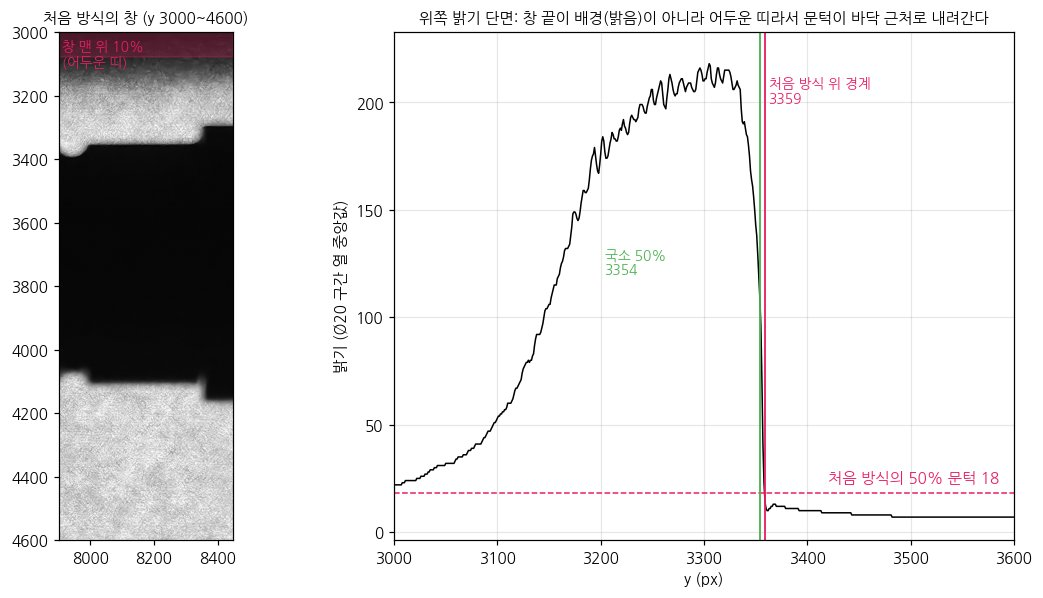
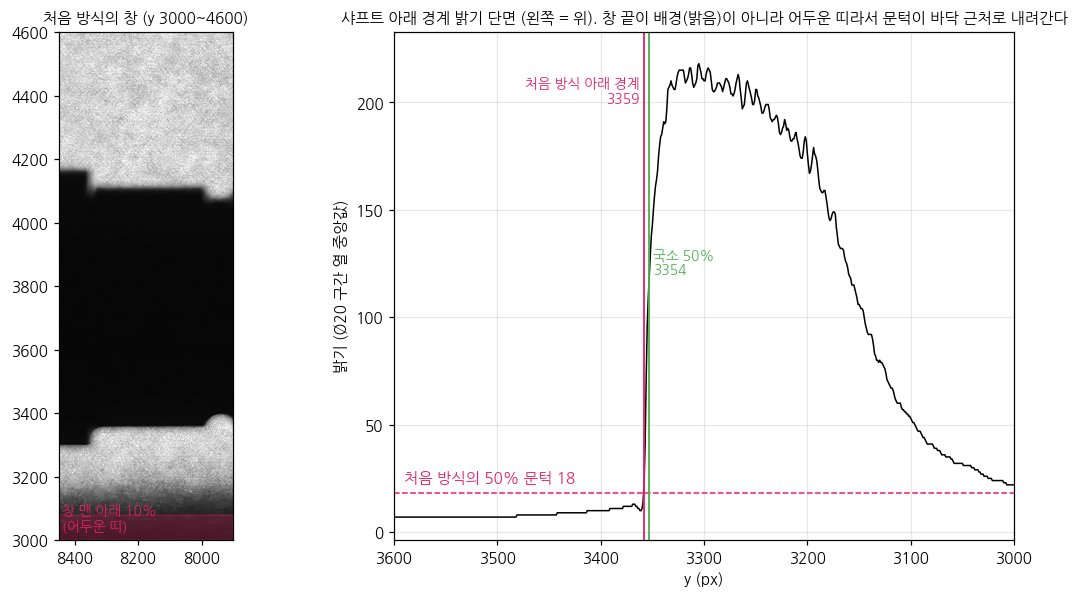
3차 분석정리: 사진 방향 정정(EXIF 180도). 그림을 실제 방향으로 다시 그리고 경계 위·아래, 홈·칼라 좌우 표기 수정. 숫자는 그대로

diff --git a/experiments/20261021_3차촬영/fig_mentor_v2.py b/experiments/20261021_3차촬영/fig_mentor_v2.py
@@ -12,7 +12,7 @@ l = pd.read_csv('local_edges.csv').merge(pd.read_csv('v3_d20.csv')[['file', 'pin
 l['no'] = l['no'].str[2:].astype(int); l['t'] = pd.to_datetime(l.file.str[:15], format='%Y%m%d_%H%M%S')
 l = l[(l.stage < 3) & ~((l.stage == 1) & (l.no == 1))].sort_values('t')
 fig, ax = plt.subplots(figsize=(9, 4.4))
-for col, c, lb in [('pin_px', '#999999', '기존 방식 (위 경계를 어두운 바닥 쪽에서 잡음, 결함)'), ('pin', '#1f5fa8', '국소 50% 방식 (경계 바로 안팎 밝기의 중간)')]:
+for col, c, lb in [('pin_px', '#999999', '기존 방식 (아래 경계를 어두운 바닥 쪽에서 잡음, 결함)'), ('pin', '#1f5fa8', '국소 50% 방식 (경계 바로 안팎 밝기의 중간)')]:
     ref = l[(l.stage == 1) & (l.no == 2)][col].mean()
     for st, mk in [(1, 'o'), (2, 's')]:
         s = l[l.stage == st]

diff --git a/docs/05_meetings/2026-10-23_3차촬영_분석정리.md b/docs/05_meetings/2026-10-23_3차촬영_분석정리.md
@@ -14,15 +14,17 @@
 - 실측: NO1 20.011 · NO2 20.020 · NO3 20.028 · NO4 20.019 · NO5 20.030 · NO6 20.011 · NO7 20.014 · NO8 20.026 · NO9 20.009 · NO10 20.022 · **NG1 19.968 · NG2 20.044**
 - 사진: 16320x7532, 1/60 · ISO 50 고정(암막 없음은 ISO 12). 1px 약 26.7µm(Ø20 = 약 750px). 공차 폭 20µm = 0.75px
 - 주의할 점
-  - 사진이 EXIF 방향 3(180도 회전)으로 저장돼 있다. 원본 좌표의 위·아래가 실제와 반대다
+  - 사진이 EXIF 방향 3(180도 회전)으로 저장돼 있다. 원본 파일 좌표는 위·아래, 왼쪽·오른쪽이 실제와 반대다
+  - 이 문서의 위·아래·왼쪽·오른쪽과 그림은 모두 실제 방향이다(핀이 샤프트 오른쪽). x·y 숫자만 원본 파일 좌표다
+  - (10-23 정정) 처음 올린 판은 원본 파일 방향 그대로 보고 위·아래를 적어서, 경계의 위·아래와 그림 방향이 실제와 반대였다. 방향만 고쳤고 숫자는 그대로다
   - NO1만 1.41배 디지털 줌·1/40으로 찍혔다. NO1을 빼고 계산해도 판정은 같다
   - 기준 핀 Ø16은 공인 핀게이지가 아니라 현장에서 측정한 값이다. 분석은 핀의 절대 지름을 쓰지 않고, 같은 핀의 px 변화만 본다
 - 측정 구간: Ø20 단(칼라와 홈 사이, 원본 x 약 7995 \~ 8355)의 가운데 x 8015 \~ 8335. 처음에 끝단(약 Ø16.7 구간)을 잘못 측정했다가 바로잡았다
 
 <img src="../images/20261021_3rd/photo1_scene.jpg" width="900">
 
-- 그림은 모두 원본 픽셀 좌표 그대로다(사진 뷰어에서는 180도 돌아 보인다). 문서의 x·y 숫자와 같은 방향이다
-- 아래는 Ø20 단 확대다. 왼쪽이 홈 쪽, 오른쪽이 칼라 쪽이고, 점선 사이가 측정 구간이다. 초록 점은 열마다 잡은 국소 50% 경계다
+- 그림은 실제 방향으로 돌려서 보였다. 축 숫자는 원본 파일 좌표라 오른쪽·아래로 갈수록 작아진다
+- 아래는 Ø20 단 확대다. 왼쪽이 칼라 쪽, 오른쪽이 홈 쪽이고, 점선 사이가 측정 구간이다. 초록 점은 열마다 잡은 국소 50% 경계다
 
 <img src="../images/20261021_3rd/photo2_d20_edges.jpg" width="450">
 
@@ -45,9 +47,9 @@
 | 배율이 바뀌었나 | 아니다. 배율이 0.5% 바뀌었다면 V블록 세로 경계가 약 -12px 움직여야 하는데 실제는 -3.1px다. 핀 끝면(-2.0px)도 같은 방향이라, 장면 전체가 2 \~ 3px 옮겨간 것으로 본다 |
 | 다른 분석과 비교 | 같은 사진을 다른 경계 방법(E6·E10)으로 따로 분석한 결과도 핀 크기 변화 -0.19%로, 국소 50% 값(-0.18%)과 거의 같다 |
 | 빛이 바뀌었나 | 아니다. 노출 고정, 배경 밝기 164 \~ 166으로 일정하다 |
-| 경계 모양 | 경계를 잡는 밝기에 따라 줄어든 양이 약 2.5배 다르다. 물체가 실제로 작아지거나 배율이 바뀐 것이라면 어느 밝기로 잡든 같은 만큼 움직여야 한다. 그래서 **경계 밝기 모양 자체가 시간에 따라 변했다**고 본다. 국소 50% 기준으로는 위 경계는 그대로(+0.02px)이고 아래 경계만 1.17px 움직였다 |
+| 경계 모양 | 경계를 잡는 밝기에 따라 줄어든 양이 약 2.5배 다르다. 물체가 실제로 작아지거나 배율이 바뀐 것이라면 어느 밝기로 잡든 같은 만큼 움직여야 한다. 그래서 **경계 밝기 모양 자체가 시간에 따라 변했다**고 본다. 국소 50% 기준으로는 아래 경계는 그대로(+0.02px)이고 위 경계만 1.17px 움직였다 |
 
-아래는 본시험 앞(NO2 첫 장)과 뒤(NO11 마지막 장)의 핀 경계 밝기 단면이다. 위 경계는 두 선이 거의 겹치고, 아래 경계는 단면 모양이 달라졌다.
+아래는 본시험 앞(NO2 첫 장)과 뒤(NO11 마지막 장)의 핀 경계 밝기 단면이다. 아래 경계는 두 선이 거의 겹치고, 위 경계는 단면 모양이 달라졌다.
 
 <img src="../images/20261021_3rd/photo4_pin_edge_profile.jpg" width="900">
 
@@ -93,7 +95,7 @@
 - 정리: 약 50µm 급 불량(NG1, NG2)을 가를 신호는 있다. 하지만 ±10µm 합불 판정은 못 한다
 
 ### 6. 측정 위치 (Ø20 단 안 축 방향)
-측정 구간의 실제 모습은 1절의 Ø20 단 확대 그림에 있다(왼쪽 = 홈 쪽).
+측정 구간의 실제 모습은 1절의 Ø20 단 확대 그림에 있다(오른쪽 = 홈 쪽).
 
 <img src="../images/20261021_3rd/axial_profile.png" width="700">
 
@@ -126,15 +128,15 @@
 - 3개로는 관계를 판단할 수 없다. 12개 재측정을 요청했다. 값이 오면 시편별 치우침과 대조한다(12개면 상관 약 0.58 이상이어야 우연과 구분)
 
 ### 9. 경계 측정 정정 (10-23)
-- 처음 50% 경계 측정은 측정 창 끝 10% 평균을 "바깥 밝기"로 썼다. 그런데 암막 사진은 창 맨 위(y 3000 \~ 3160)가 원래 어두운 띠라서, **위 경계를 50%가 아니라 거의 바닥(밝기 약 11)에서 잡고 있었다.** 아래 경계는 정상이었다
+- 처음 50% 경계 측정은 측정 창 끝 10% 평균을 "바깥 밝기"로 썼다. 그런데 암막 사진은 창 맨 아래(원본 y 3000 \~ 3160)가 원래 어두운 띠라서, **아래 경계를 50%가 아니라 거의 바닥(밝기 약 11)에서 잡고 있었다.** 위 경계는 정상이었다
 
 <img src="../images/20261021_3rd/photo3_window_band.jpg" width="850">
 
-- 위 그림(NO2 첫 장, Ø20 구간): 창 맨 위 10%가 어두워서 문턱이 18로 내려가고, 위 경계가 국소 50%보다 약 5px 안쪽(3359 vs 3354)에서 잡혔다
+- 위 그림(NO2 첫 장, Ø20 구간): 창 맨 아래 10%가 어두워서 문턱이 18로 내려가고, 아래 경계가 국소 50%보다 약 5px 안쪽(3359 vs 3354)에서 잡혔다
 - 경계 바로 바깥 20 \~ 60px와 안쪽 10 \~ 30px의 밝기 중간값으로 잡는 국소 50% 방식으로 190장을 다시 측정했다. 이 문서의 50% 숫자는 모두 다시 측정한 값이다
 - 처음 값과 비교
 
-| 항목 | 처음(위 경계 바닥) | 국소 50% |
+| 항목 | 처음(아래 경계 바닥) | 국소 50% |
 |---|---|---|
 | 핀 크기 변화 | -0.46% | -0.18% |
 | 같은 놓임 사진 사이 sd | 5.2µm | 9.0µm |

diff --git a/experiments/20261021_3차촬영/README.md b/experiments/20261021_3차촬영/README.md
@@ -7,8 +7,11 @@
 - `run_v3_d20.py`는 선행 V3 엔진(`measurement_engine_EDGE_V3_REFLECTION.py`)을 `../../build/demo/hy_system/measurement`에서 불러온다
 - `fig_mentor.py`, `fig_mentor_v2.py`는 그림을 `../../ETC/261023/`에 저장한다. 문서에 쓴 그림은 `docs/images/20261021_3rd/`에 복사해 두었다
 
+## 방향 주의
+- 사진은 EXIF 방향 3(180도)이다. 코드는 원본 픽셀 배열을 그대로 쓰므로 코드 안의 위·아래(`pin_top`, `sh_top`, "창 맨 위" 등)는 실제와 반대다. 문서와 `fig_photos.py` 그림은 실제 방향으로 적었다
+
 ## 50% 경계 두 가지 (중요)
-- **처음 방식**(`run_v3_d20.py`의 `tb`, `pin_motion.py`): 측정 창 끝 10% 평균을 바깥 밝기로 쓴다. 암막 사진은 창 맨 위가 어두운 띠라서 위 경계를 바닥 쪽에서 잡는 결함이 있다. 결과는 `v3_d20.csv`의 `p50_px`·`pin_px`, `pin_motion.csv`, `ana_p50.txt`, `grr.txt`, `drift_removed_old.txt`, `pp_check.txt`, `burst.txt`
+- **처음 방식**(`run_v3_d20.py`의 `tb`, `pin_motion.py`): 측정 창 끝 10% 평균을 바깥 밝기로 쓴다. 암막 사진은 창 맨 아래(원본 좌표로는 맨 위)가 어두운 띠라서 아래 경계를 바닥 쪽에서 잡는 결함이 있다. 결과는 `v3_d20.csv`의 `p50_px`·`pin_px`, `pin_motion.csv`, `ana_p50.txt`, `grr.txt`, `drift_removed_old.txt`, `pp_check.txt`, `burst.txt`
 - **국소 50%**(`local_edges.py`): 경계 바로 바깥 20 \~ 60px와 안쪽 10 \~ 30px의 밝기 중간값. 문서의 50% 숫자는 이쪽이다. 결과는 `local_edges.csv`, 그리고 이 값을 `p50_px`·`pin_px` 자리에 넣은 `v3_d20_local.csv`
   - `SRC=v3_d20_local.csv python analyze.py p50_px`처럼 환경변수로 입력을 바꿔 `analyze.py`·`grr.py`·`drift_removed.py`를 돌렸다 -> `ana_local.txt`, `grr_local.txt`, `drift_removed_local.txt`
 - V3 엔진 값(`v3_px`)은 이 문제와 무관하다(사전 규칙 판정)
@@ -26,7 +29,7 @@
 | `axial_profile_local.py`, `axial_ana.py` | Ø20 단 안 측정 위치에 따른 지름 -> `axial_profile_local.npz`, `axial_ana.txt`, `axial_profile.png` | 6절 |
 | `noblack_ana.py` | 암막 없음 40장 시간 변화·반복성, 두 경계 방식 비교 | 3·7절 |
 | `fig_mentor.py`, `fig_mentor_v2.py` | 멘토링 그림(v2 = 국소 50%) | 3·5절 |
-| `fig_photos.py` | 실제 사진 그림 5장(사진 전체, Ø20 단 확대, 창 맨 위 어두운 띠, 핀 경계 단면 앞/뒤, 암막 vs 암막 없음). 원본 사진이 있어야 돌아간다 | 1·3·7·9절 |
+| `fig_photos.py` | 실제 사진 그림 5장(사진 전체, Ø20 단 확대, 창 맨 아래 어두운 띠, 핀 경계 단면 앞/뒤, 암막 vs 암막 없음). 원본 사진이 있어야 돌아간다 | 1·3·7·9절 |
 
 ## 고쳤던 실수
 - 처음 V3 상자를 끝단(약 Ø16.7, x 8900 \~ 9900)에 잡았다. 핀/구간 비율이 맞지 않아 발견하고 Ø20 단으로 바로잡았다

diff --git a/docs/02_facts.md b/docs/02_facts.md
@@ -7,7 +7,7 @@
 - 12개 시편(CAL NO1 \~ 3 · VAL NO4 \~ 6 · 랜덤 NO7 \~ 10 · NG 2). 본시험 120 + 재장착 30(NO7 \~ 12 x 5) + 암막 없음 40(NO7 \~ 10). 폰 2억 화소 16320x7532, 1/60 · ISO 50 고정, 차광 박스 + 아크릴 + A4 + 켄트지, 30cm. 1px 약 26.7µm (Ø20 = 약 750px). 기준 핀 Ø16(현장 측정값, 공인 게이지 아님)
 - 실측: NO1 20.011 · NO2 20.020 · NO3 20.028 · NO4 20.019 · NO5 20.030 · NO6 20.011 · NO7 20.014 · NO8 20.026 · NO9 20.009 · NO10 20.022 · **NG1 19.968 · NG2 20.044**
 - 사전 규칙 (가) V3 + CAL 3점 회귀: 평가 7개 MAE **7.9µm**, 최대 13.8µm, 기울기 -2.4µm/px(물리 +26.7). NG 둘 다 합격 판정. 기준선(CAL 평균 부르기) MAE **6.4µm** -> **통과 못 함**
-- 고정 핀 크기 NO2 -> NO11: 국소 50% 경계 -0.18%(Ø20 환산 약 36µm), 위 경계를 바닥에서 잡으면 -0.46%(약 92µm). 재장착 단계에서 회복. V블록 세로 경계 -3.1px(배율이면 -12px), 배경 밝기 164 \~ 166 일정
+- 고정 핀 크기 NO2 -> NO11: 국소 50% 경계 -0.18%(Ø20 환산 약 36µm), 아래 경계를 바닥에서 잡으면 -0.46%(약 92µm). 재장착 단계에서 회복. V블록 세로 경계 -3.1px(배율이면 -12px), 배경 밝기 164 \~ 166 일정
 - 국소 50% 기준 반복성: 같은 놓임 사진 사이 sd 9.0µm, 다시 놓고 한 장 11.6µm -> %GRR 약 350%, ndc 0.9(정상 4개), Cg 0.07
 - 사후 시간 보정(핀이 잃은 px 더함, 물리 배율, CAL 3 치우침): 상관 0.62 -> 0.91, 평가 7개 MAE 8.6µm, NG1 19.9465 · NG2 20.0307(둘 다 불합격), 정상 10개 중 거짓 불합격 2. 시편별 치우침 sd 약 9µm
 - Ø20 단 안 위치: 시편 공통 기울기 약 65µm(사진 위치 효과), 시편별 테이퍼는 재장착에서 반복 안 됨(상관 -0.12)
